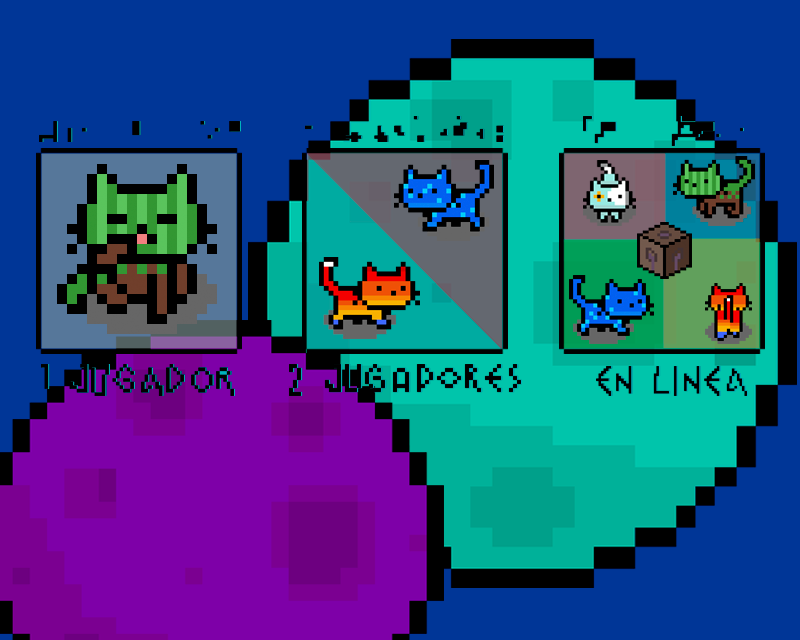
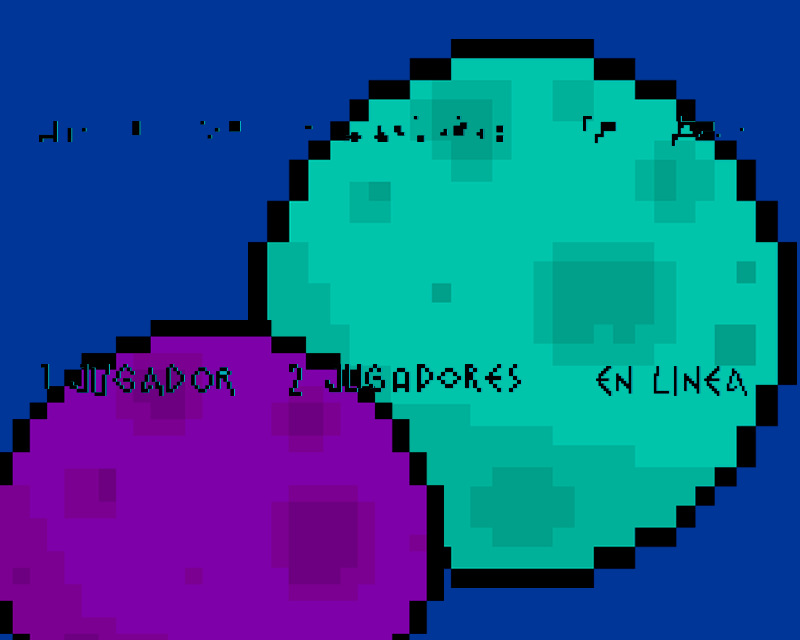
Actualización fondos menus

Changed region(s): [[0.6875, 0.2188, 0.9688, 0.5625], [0.375, 0.2188, 0.6562, 0.5625], [0.0312, 0.2188, 0.3125, 0.5625]]

diff --git a/src/js/bootloader.js b/src/js/bootloader.js
@@ -16,10 +16,10 @@ class bootloader extends Phaser.Scene {
         });
 
         // Carga de fondos
-        this.load.image("mainMenu","./resources/img/MenuDesign/Main/MainMenu.png");
-        this.load.image("play","./resources/img/MenuDesign/Game/GameMenu.png");
-        this.load.image("controls","./resources/img/MenuDesign/Controls/ControlsMenu.png");
-        this.load.image("settings","./resources/img/MenuDesign/Settings/SettingsMenu.png");
+        this.load.image("mainMenu","./resources/img/MenuDesign/Main/MainMenu_NoButtons.png");
+        this.load.image("play","./resources/img/MenuDesign/Game/GameMenu_noButtons.png");
+        this.load.image("controls","./resources/img/MenuDesign/Controls/ControlsMenu_noButtons.png");
+        this.load.image("settings","./resources/img/MenuDesign/Settings/SettingsMenu_noButtons.png");
     
         // Carga de mapas
         this.load.image("forestMap","./resources/img/Maps/FieldLevel_800x640.png");
